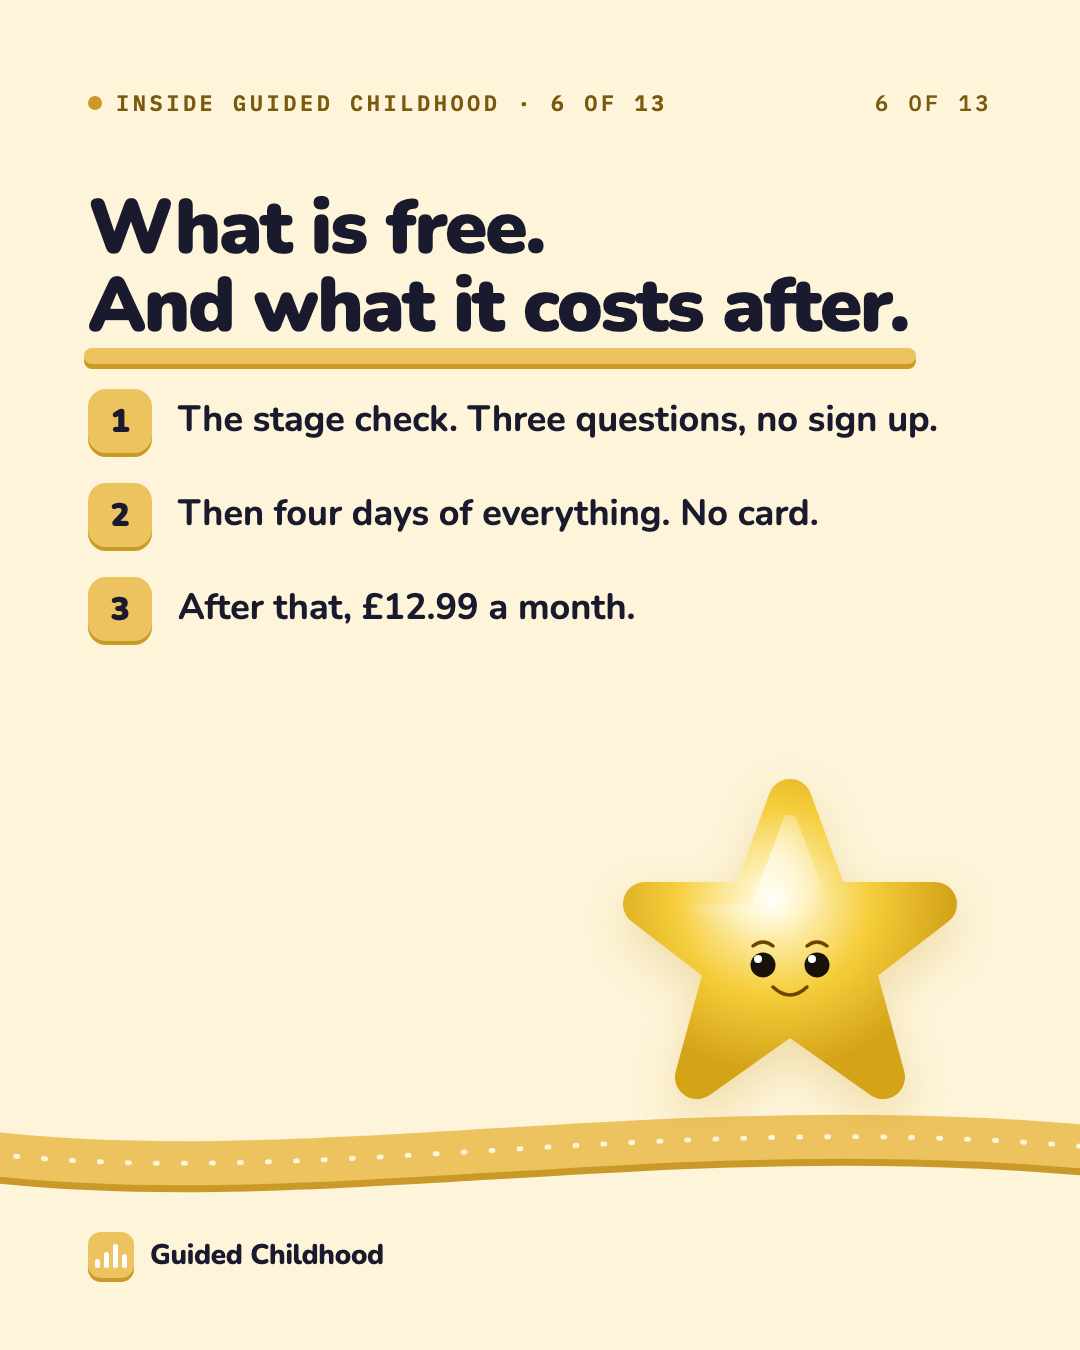
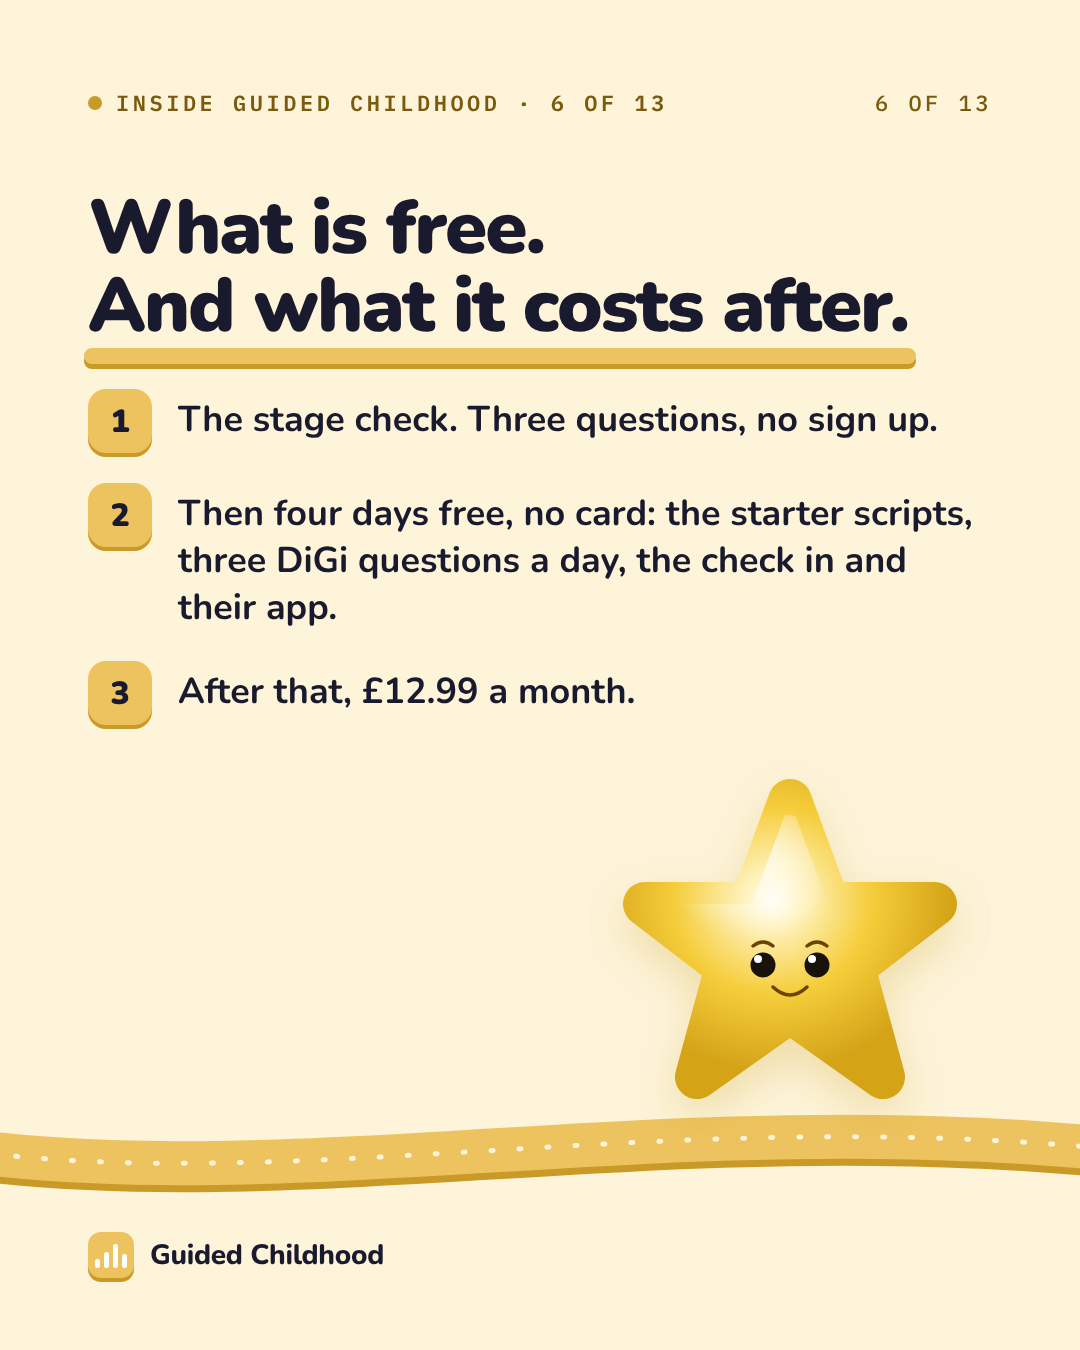
Walkthrough fixes Justin chose: posts 10 and 18 re-rendered, post 4 ready for the Mac, two promises brought into line
The stage check intro says a confident, capable 16; the save screen says four
days free, matching FreeDoor and the upgrade page. ref-kid-jobs pays outside
play what the templates pay. New posts scheduled for Sunday mornings.

Claude-Session: https://claude.ai/code/session_014MKeZaRwosR7VhbLqQ5dyG

diff --git a/app/(marketing)/starter-pack/page.tsx b/app/(marketing)/starter-pack/page.tsx
@@ -879,7 +879,7 @@ export default function StarterPackPage() {
             <div style={{ display: 'flex', flexDirection: 'column', gap: '10px', marginBottom: '30px' }}>
               {[
                 { n: '1', title: 'Tell us about your child', sub: 'Their age and the screen battle you are facing right now' },
-                { n: '2', title: 'We build their pathway', sub: 'A plan for their exact age, step by step to a safe, capable 16' },
+                { n: '2', title: 'We build their pathway', sub: 'A plan for their exact age, step by step to a confident, capable 16' },
                 { n: '3', title: 'Start tonight, free', sub: 'The words to say, lessons for their age, and a plan for both of you' },
               ].map(item => (
                 <div key={item.n} style={{ display: 'flex', gap: '14px', alignItems: 'flex-start', background: 'var(--cream)', border: '1.5px solid var(--border)', borderRadius: 'var(--radius-tile)', padding: '16px 18px' }}>
@@ -942,8 +942,12 @@ export default function StarterPackPage() {
                   counting: it names what is asked for, which stays true
                   whatever the form does next. This whole day has been about
                   screens that say things that are nearly true. */}
-              {oneTap ? 'One tap and it is yours, with four days of everything free. No card.'
-                      : 'Your email and a password, and it is yours. Four days of everything free, no card.'}
+              {/* "Four days free", not "four days of everything" (19 November
+                  2026, Justin chose it): the free days carry the starter
+                  scripts and DiGi on a daily limit (lib/access.ts), which is
+                  what FreeDoor and the upgrade page already say. */}
+              {oneTap ? 'One tap and it is yours, with four days free. No card.'
+                      : 'Your email and a password, and it is yours. Four days free, no card.'}
             </p>
 
             {/* Above the email, not below it. The Mobbin sweep of account

diff --git a/app/ref-kid-jobs/page.tsx b/app/ref-kid-jobs/page.tsx
@@ -14,10 +14,14 @@ import type { WaitingAsk } from '@/components/kid/KidWaitingAsks'
 
 export const dynamic = 'force-dynamic'
 
+// Outside play pays what lib/quests/templates.ts pays it, and sits first
+// (19 November 2026): since 15 November play earns the same stars as any job,
+// and this fixture still paid five, which a walkthrough film showed as
+// "Outside pays the most".
 const QUESTS = [
+  { id: 'c', title: 'One hour of outside play', emoji: '🌳', stars: 2, play: true },
   { id: 'a', title: 'Make your bed', emoji: '🛏', stars: 2 },
   { id: 'b', title: 'Feed the dog before school', emoji: '🐕', stars: 3, blocks_screens: true },
-  { id: 'c', title: 'One hour of outside play', emoji: '⚽', stars: 5 },
   { id: 'd', title: 'Shoes on and by the door', emoji: '👟', stars: 1 },
   { id: 'e', title: 'Twenty minutes lost in a book', emoji: '📚', stars: 3 },
   { id: 'f', title: 'Empty the dishwasher', emoji: '🫧', stars: 1 },

diff --git a/content/campaigns/platform-walkthrough/04-the-star-quest.md b/content/campaigns/platform-walkthrough/04-the-star-quest.md
@@ -23,7 +23,7 @@
 | 6.0 | FAMILY QUESTS. 1. You set the jobs | The parent's board: "On Ava's board", with a family job that pays no stars and "Homework done before the phone comes out" |
 | 10.6 | THEIR APP. 2. They tick them off | The child's jobs: "Feed the dog before school, worth 3 stars" |
 | 15.2 | ASK FIRST. 3. Stars turn into minutes | The ask box: "That is 6 stars on the Console." |
-| 19.6 | ON PURPOSE. 4. Outside pays the most | "One hour of outside play, worth 5 stars" |
+| 19.6 | ON PURPOSE. 4. Outside comes first | "One hour of outside play" at the top of the child's jobs |
 | 23.8 | BEDTIME, MEALS, SCHOOL. 5. Some time is not for sale. It still comes to you as an ask | The ask inside a rest window: "Screens are meant to be resting right now. Saying yes still works." |
 | 28.4 | One plan for screens, phones and AI. What stage is your child? Three questions, no sign up. `guidedchildhood.com/v/tour-04` | End card |
 
@@ -36,7 +36,7 @@ Send this to the parent who negotiates screen time forty times a day.
 1. You set real jobs. Feed the dog. Shoes by the door.
 2. Each job is worth stars, and you decide how many.
 3. Stars become minutes. One star is five minutes unless you change it.
-4. An hour outside pays more than anything else on the board.
+4. Outside play leads the list, and earns the same stars as any other job.
 5. Bedtime, mealtimes and school hours are not for sale at any price.
 
 Once the price is written down, there is nothing left to argue about.
@@ -56,8 +56,8 @@ episode, but you said.
 What ended it was writing the price down.
 
 You set real jobs and say what each one is worth in stars. Feed the dog
-before school is three. An hour of outside play is five, because the board
-pays the most for the things that get them off the screen. Stars become
+before school is three. Outside play leads the list and earns the same as any job,
+because paying extra for something they already love can make it feel like work. Stars become
 minutes, five minutes a star unless you change it for your child.
 
 Some time is theirs anyway, and some cannot be bought at all: bedtime,
@@ -90,3 +90,17 @@ What would be the first job on your board?
 - Family jobs sit outside the stars. If a beat shows one, it is labelled as unpaid.
 - The hook is the service map's own, in the family "we". It is a family screen argument, which the founder context marks amber, so it is flagged here for Justin's yes.
 - Built 10 November from the reference pages `ref-job-board`, `ref-kid-jobs`, `ref-ask-first` and `ref-ask-popup`. The time tiers screen was blank in the old capture, so the rest window ask stands in for it.
+
+
+## 19 November 2026: outside play no longer pays the most
+
+Since 15 November play earns the same stars as any other job
+(`lib/quests/templates.ts`, `PLAY_FIRST_WHY`), so "Outside pays the most" was
+no longer true. Changed: the s4 band reads "Outside comes first", its highlight
+on the star count is gone, the caption says outside leads the list, and
+`app/ref-kid-jobs` now pays outside play 2 stars and lists it first. Justin
+chose to fix it on the Mac. Before posting on Sunday 22 November:
+
+1. Re-capture `captures/wt/kid-jobs.png` from `/ref-kid-jobs` (the same crop as before).
+2. `node build.mjs cuts/walkthrough-04.json`, check s4 by eye, then `sh tools/render-both.sh walkthrough-04`.
+3. Post only the new render; keep the old one as `-v1`.

diff --git a/content/campaigns/platform-walkthrough/10-what-is-free.md b/content/campaigns/platform-walkthrough/10-what-is-free.md
@@ -20,7 +20,7 @@
 - Headline: What is free. And what it costs after.
 - Three lines, as a list:
   - The stage check. Three questions, no sign up.
-  - Then four days of everything. No card.
+  - Then four days free, no card: the starter scripts, three DiGi questions a day, the check in and their app.
   - After that, £12.99 a month.
 - Pill: What stage is your child?
 
@@ -29,8 +29,8 @@
 Nobody likes finding the price at the end, so here it is in the middle.
 
 1. The stage check is free. Three questions, no sign up.
-2. Save your result and you get four days of everything. No card.
-3. Everything means everything: the scripts, DiGi, the jobs board, the child's app.
+2. Save your result and you get four days free. No card.
+3. The four days carry the starter scripts, three DiGi questions a day, the check in and your child's app.
 4. After the four days it is £12.99 a month.
 5. The first fifty families pay £7.99 and keep that rate for as long as they stay.
 
@@ -49,9 +49,9 @@ the walk through.
 The stage check is free and needs no sign up. It is three questions and it
 tells you which of five stages your child is at.
 
-If you save the result, you get an account with four days of everything
-open. No card. That is the scripts, DiGi, the jobs board and your child's
-own app.
+If you save the result, you get an account with four days free. No card.
+That is the starter scripts, three DiGi questions a day, the check in and
+your child's own app.
 
 After the four days it is £12.99 a month. The first fifty families pay £7.99
 and keep that rate for as long as they stay. That fifty is counted by the
@@ -74,10 +74,10 @@ What would it need to do in four days for you to keep it?
 ## Proof
 
 - "Three questions, two minutes. See your child's stage before you make an account.": the live stage check intro.
-- "One tap and it is yours, with four days of everything free. No card.": the save screen in `app/(marketing)/starter-pack/page.tsx`.
+- "One tap and it is yours, with four days free. No card.": the save screen (it said "of everything" until 19 November; changed to match `components/access/FreeDoor.tsx` and the upgrade page) in `app/(marketing)/starter-pack/page.tsx`.
 - `TRIAL_DAYS = 4` in `lib/access.ts`; no free tier after it, `lib/content/free-script-limit.ts`.
 - £7.99 founder rate for the first fifty, then £12.99: the save screen and `/join`. The cap is counted in Stripe (THE-STORY section 7).
-- During the four days DiGi takes three messages a day (`platform_config.trial_digi_daily_limit`). The card says "everything" because every part is open; the caption can add the three a day line if Justin wants it exact.
+- During the four days DiGi takes three messages a day (`platform_config.trial_digi_daily_limit`) and the scripts are the starter set (`lib/access.ts` `inStarterTrial`). The card says so, word for word with `FreeDoor.tsx` (19 November).
 
 ## Checks
 

diff --git a/content/campaigns/platform-walkthrough/schedule.md b/content/campaigns/platform-walkthrough/schedule.md
@@ -31,6 +31,19 @@ or "Post text, LinkedIn" in that draft.
 | Friday 18 December, 19:00 | 19 | Parents 12 of 13 | Reel: Their side of it | Guided Childhood Instagram and Facebook, TikTok | `built/19-the-childs-app/their-side-of-it.mp4` | `19-the-childs-app.md` | `tour-19`, `tour-19-fb`, `tour-19-tt` |
 | Sunday 20 December, 19:30 | 20 | Parents 13 of 13 | Carousel: Everything, in one swipe | Guided Childhood Instagram and Facebook | `built/20-everything-in-one-swipe/` | `20-everything-in-one-swipe.md` | `tour-20`, `tour-20-fb`, `tour-20-li` |
 
+## Added 19 November: the family week pack and New in Guided Childhood
+
+Justin chose Sunday mornings for the three new posts (`content/campaigns/new-in-the-app/`).
+
+| When | What | Where | Upload | Captions | Links to make first |
+|---|---|---|---|---|---|
+| Saturday 21 November | Free Saturday: the family week pack carousel (PR 1607) | Guided Childhood Instagram and Facebook | `tools/social-cards/out/free-family-week/` | `content/campaigns/family-week/carousel.md` | DM word WEEK |
+| Sunday 22 November, 10:00 | New 2 of 3: the twelve things parents ask us for help with | Guided Childhood Instagram and Facebook | `content/campaigns/new-in-the-app/built/new-02-what-would-you-like-help-with/` | `02-what-would-you-like-help-with.md` | `new-02`, `new-02-fb` |
+| Sunday 29 November, 10:00 | New 1 of 3: the school letter | Guided Childhood Instagram and Facebook | `content/campaigns/new-in-the-app/built/new-01-the-school-letter/` | `01-the-school-letter.md` | `new-01`, `new-01-fb` |
+| Sunday 6 December, 10:00 | New 3 of 3: watch it together | Guided Childhood Instagram and Facebook | `content/campaigns/new-in-the-app/built/new-03-watch-it-together/` | `03-watch-it-together.md` | `new-03`, `new-03-fb` |
+
+Fixed on 19 November: post 10 (the free days line) and post 18 (where stamps come from, and the burgundy passport) are re-rendered. Post 4 needs the Mac render before Sunday 22 November: the steps are at the foot of `04-the-star-quest.md`.
+
 ## Before the first post, Tuesday 17 November
 
 0. **Post 1 was re-laid on 17 November** (PR 1611): the worry screen in it was the old one. Upload `the-plan-in-thirty-seconds.mp4`, never the `-v1` file. Posts 4, 10 and 18 need fixes before their dates: `plans/2026-11-17-instagram-walkthrough-plan.md` section 3.

diff --git a/plans/decisions.md b/plans/decisions.md
@@ -302,3 +302,9 @@ Every evidence pack now carries three hooks of different kinds with one CHOSEN, 
 - His answers: the Digital Health Check is left alone for now (not a lead, no app data on it); free tool pages lead to the stage check; the existing email course signup is reused unchanged; all age pages indexed if each carries genuinely different advice.
 - Phase 1: every public page builds its metadata through `lib/seo/meta.ts` (canonical, its own share card; the brand was printed twice in a dozen titles), private pages noindexed, AI crawlers named in robots, real sitemap dates, Organization JSON-LD site wide, FAQPage on /join, SoftwareApplication on the home page, `/llms.txt`, the Google verification slot (`lib/config/site.ts`), and `ai_source` on PostHog events from ChatGPT, Perplexity, Gemini, Claude and Copilot.
 - Found: PostHog has never run on the live site (NEXT_PUBLIC_POSTHOG_KEY is not set in Vercel). Setup steps went to Justin.
+
+## 19 November 2026: the walkthrough fixes Justin chose, and two promises brought into line
+
+- The three New in Guided Childhood posts run on Sunday mornings at 10:00 (22 Nov, 29 Nov, 6 Dec); the family week pack takes Free Saturday 21 Nov.
+- The stage check intro says "a confident, capable 16", not "a safe" one, and the save screen says "four days free", not "four days of everything", to match FreeDoor and the upgrade page.
+- Posts 10 and 18 re-rendered. Post 4 says outside comes first; `ref-kid-jobs` now pays outside play what the templates pay. Its film is re-rendered on the Mac.

diff --git a/content/campaigns/platform-walkthrough/18-the-passport-and-the-lessons.md b/content/campaigns/platform-walkthrough/18-the-passport-and-the-lessons.md
@@ -20,7 +20,7 @@
 |---|---|---|
 | 1 | THE ROAD TO 16. A birthday is not a training course. | The five Planet Friends on the gold pathway, the passport at the end |
 | 2 | Five stages. One job each. 4 to 7, calm screen offs. 8 to 10, healthy habits. 11 to 13, knows how it works. 13 to 15, owns their footprint. 16, ready for the world. | One band a stage, each with its friend |
-| 3 | Each stage ends in a stamp. The stamps fill in from what you already do: jobs, check ins and lessons. | None |
+| 3 | Each stage ends in a stamp. A stamp comes from the lessons, the talks you have together, and their big check. | None |
 | 4 | Fifteen lessons before the first account. Social Media Ready runs from 8 to 16. The lesson is how it works. | None |
 | 5 | Want it real? There is a printed one. | The keepsakes screen: The printed passport |
 | 6 | Find the stage first. | The stage result: "Sam's pathway is ready." |
@@ -42,7 +42,7 @@ Nobody goes from nothing to everything in one birthday and comes out
 knowing what to do with it.
 
 The passport gets a stamp as each stage is done. The stamps fill in from
-things you were doing anyway: jobs, check ins and lessons.
+the lessons, the talks you have together, and their big check.
 
 11 of 13. What stage is your child? Three questions, no sign up. The link is
 in our bio.
